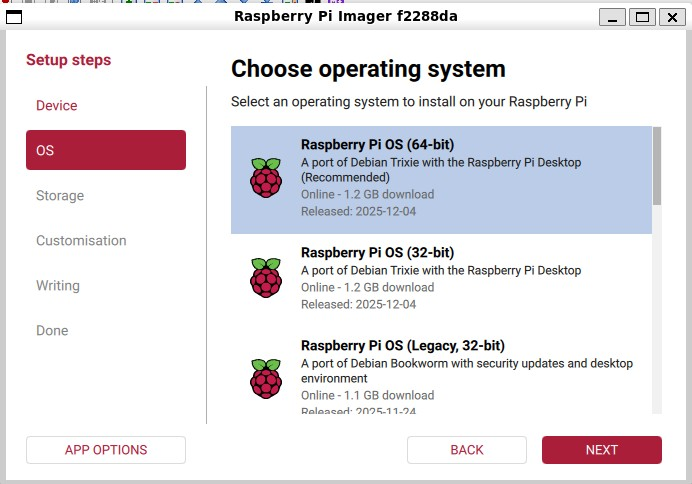
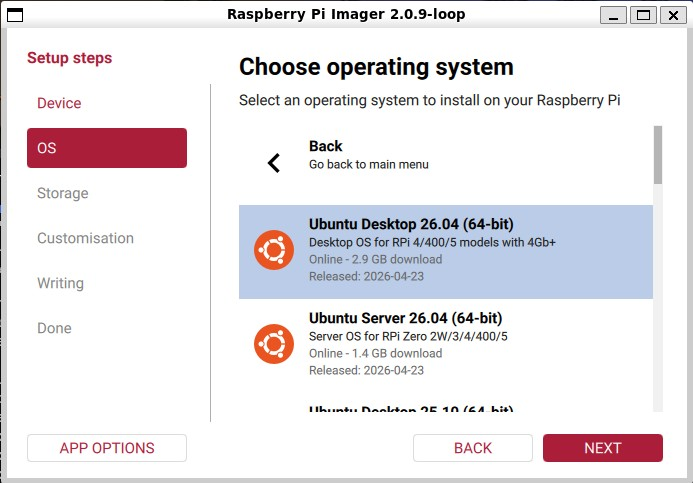
Updated Doc

diff --git a/Install_Multiboot_Images.md b/Install_Multiboot_Images.md
@@ -36,19 +36,20 @@ your target partition is of course ~/realimages
 cd ~/Pi_Multiboot/create_images
 ./install_image.sh -h
 
-Usage: ./install_image.sh -r=<root_mount> -n=<name_of_image> -m=<pi_model> -s=<size> [-e] [-h]
-  -r=<root_mount>    Root of mounted image disk (e.g. -r=/mnt/realimages)  
-  -n=<name>          Name of image (letters, numbers, '-', '_')  
-  -m=<pi_model>      Pi model (e.g. pi3b,pi3b+,pi4, pi5)  
-  -s=<size>          Image size (e.g. 10G)  
-  -e                 Expand root filesystem (only if exactly 2 partitions exist)  
-  -h                 Show this help  
-  Note that the script needs to be run with sudo  
+Usage: $0 -r=<root_mount> -n=<name_of_image> -m=<pi_model> -s=<size> [-e] [-h]
+  -r=<root_mount>    Root of mounted image disk (e.g. -r=/mnt/realimages)
+  -n=<name>          Name of image (letters, numbers, '-', '_')
+  -m=<pi_model>      Pi model (e.g. pi3b,pi3b+,pi4, pi5)
+  -s=<size>          Image size (e.g. 10G)
+  -c                 Apply custom files to the image directory (will not hurt if there are no custom files)
+  -e                 Expand root filesystem (only if exactly 2 partitions exist)
+  -h                 Show this help
+  Note that the script needs to be run with sudo and relies on the device tree compiler (DTC) being available
 ```
 - 
 - Run the tool as sudo with the appropriate parameters
 ```
-sudo ./install_image.sh -r=/mnt/realimages -n=My_New_OS -m=pi4 -s=10G -e
+sudo ./install_image.sh -r=/mnt/realimages -n=My_New_OS -m=pi4 -s=10G -e -c
 ```
 1) Step 1 creates the blank .img file on the root Mount  
 ```
@@ -59,11 +60,13 @@ Step 1 completed. Continue (c) or Abort (a)? [c/a]:
 ```
 2) Step 2 runs a modified version of the raspi-imager that accepts loop mounts as targets
 ```
+Continuing...
 Step 2: Loop-mounting image and running Raspberry Pi Imager...
 Loop device: /dev/loop2
 Launching Raspberry Pi Imager...
 Refreshing loop partitions...
 Reattached loop device: /dev/loop2
+
 ```
 Follow the usual imaging process selecting the loop device attached to your image as the target 
 <div>
@@ -101,10 +104,13 @@ Step 2 completed. Continue (c) or Abort (a)? [c/a]:
       to add any desired values.
    -  The config.txt from the original boot partition is extracted for reference and a file "untreated_config.txt" is created showing
       lines that it has not been possible to process.
+   -  If the -e option is selected the root partition of the new image will be expanded to fill the img file
+   -  If the -c option is selected then custom files for the image will be copied into the directory where the img file is hosted.
+      Details of what will be copied are displayed and you can confirm the copy before it is made
 ```
 Continuing...
 Step 3: Extracting DTB and kernel...
-Handling uefi fixes. Installing cpufix.dtbo and uefi_fixes.txt
+Handling uefi fixes. Installing cpufix.dtbo, dmafix.dtbo and uefi_fixes.txt
 Model: pi4 (index 5)
 Boot directory: ./bootpart
 Will output to : /mnt/realimages/My_New_OS_pi4/My_New_OS_pi4{.dtb,.kernel,.cmdline,.initrd}
@@ -114,18 +120,23 @@ Any kernel, cmdline and initrd files will be copied (-x specified.)
 UNTREATED CONFIG LINES stored in  /mnt/realimages/My_New_OS_pi4/untreated_config.txt
 uefi_fixes.txt found and will be processed after config.txt
 COPYING FULL Config.txt ./bootpart/config.txt to /mnt/realimages/My_New_OS_pi4/config.txt
-COPYING DEFAULT KERNEL ./bootpart/kernel8.img to /mnt/realimages/My_New_OS_pi4/My_New_OS_pi4.kernel
-COPYING DEFAULT INITRAMFS ./bootpart/initramfs8 to /mnt/realimages/My_New_OS_pi4/My_New_OS_pi4.initrd
-COPYING COMMAND LINE ./bootpart/cmdline.txt to /mnt/realimages/My_New_OS_pi4/My_New_OS_pi4.cmdline
+COPYING SPECIFIED KERNEL ./bootpart/current/vmlinuz to /mnt/realimages/My_New_OS_pi4/My_New_OS_pi4.kernel
+COPYING INITRAMFS ./bootpart/current/initrd.img to /mnt/realimages/My_New_OS_pi4/My_New_OS_pi4.initrd
 SET_BASE_PROPERTY (group 0): audio=on
-LOAD_OVERLAY (group 1): ./bootpart/overlays/vc4-kms-v3d-pi4.dtbo
-APPLY_OVERLAY (group 1): ./bootpart/overlays/vc4-kms-v3d-pi4.dtbo
-LOAD_OVERLAY (group 2): ./bootpart/overlays/miniuart-bt.dtbo
-APPLY_OVERLAY (group 2): ./bootpart/overlays/miniuart-bt.dtbo
-LOAD_OVERLAY (group 3): ./bootpart/overlays/cpufix.dtbo
-APPLY_OVERLAY (group 3): ./bootpart/overlays/cpufix.dtbo
-LOAD_OVERLAY (group 4): ./bootpart/overlays/upstream-pi4.dtbo
-APPLY_OVERLAY (group 4): ./bootpart/overlays/upstream-pi4.dtbo
+SET_BASE_PROPERTY (group 1): i2c_arm=on
+SET_BASE_PROPERTY (group 2): spi=on
+SET_BASE_PROPERTY (group 3): watchdog=on
+Warning: unknown base dtparam 'watchdog' ignored
+LOAD_OVERLAY (group 4): ./bootpart/current/overlays/vc4-kms-v3d-pi4.dtbo
+APPLY_OVERLAY (group 4): ./bootpart/current/overlays/vc4-kms-v3d-pi4.dtbo
+LOAD_OVERLAY (group 5): ./bootpart/current/overlays/dwc2.dtbo
+APPLY_OVERLAY (group 5): ./bootpart/current/overlays/dwc2.dtbo
+LOAD_OVERLAY (group 6): ./bootpart/current/overlays/miniuart-bt.dtbo
+APPLY_OVERLAY (group 6): ./bootpart/current/overlays/miniuart-bt.dtbo
+LOAD_OVERLAY (group 7): ./bootpart/current/overlays/cpufix.dtbo
+APPLY_OVERLAY (group 7): ./bootpart/current/overlays/cpufix.dtbo
+LOAD_OVERLAY (group 8): ./bootpart/current/overlays/dmafix.dtbo
+APPLY_OVERLAY (group 8): ./bootpart/current/overlays/dmafix.dtbo
 COPYING MERGED DTB to /mnt/realimages/My_New_OS_pi4/My_New_OS_pi4.dtb
 Files sucessfully created
 Step 3.7: Optional expansion...
@@ -137,44 +148,53 @@ Partition Table: msdos
 Disk Flags:
 
 Number  Start   End     Size    Type     File system  Flags
- 1      8389kB  545MB   537MB   primary  fat32        lba
- 2      545MB   6451MB  5906MB  primary  ext4
+ 1      1049kB  538MB   537MB   primary  fat32        boot, lba
+ 2      538MB   8922MB  8384MB  primary  ext4
 
 e2fsck 1.47.2 (1-Jan-2025)
 Pass 1: Checking inodes, blocks, and sizes
 Pass 2: Checking directory structure
 Pass 3: Checking directory connectivity
+Pass 3A: Optimizing directories
 Pass 4: Checking reference counts
 Pass 5: Checking group summary information
-rootfs: 138407/360448 files (0.1% non-contiguous), 1269154/1441792 blocks
+
+writable: ***** FILE SYSTEM WAS MODIFIED *****
+writable: 121987/512064 files (0.1% non-contiguous), 1377596/2046785 blocks
 resize2fs 1.47.2 (1-Jan-2025)
-Resizing the filesystem on /dev/loop2p2 to 2488320 (4k) blocks.
-The filesystem on /dev/loop2p2 is now 2488320 (4k) blocks long.
+Resizing the filesystem on /dev/loop2p2 to 2490112 (4k) blocks.
+The filesystem on /dev/loop2p2 is now 2490112 (4k) blocks long.
 
 Expansion complete.
 [cleanup] Forcing release of ./bootpart...
-Generating GRUB entry: /mnt/realimages/My_New_OS_pi4/Grub_My_New_OS_pi4.cfg
+Generating GRUB entry: /mnt/realimages/My_New_OS_pi4/My_New_OS_pi4_grub.cfg
 GRUB entry written to: Grub_My_New_OS_pi4.cfg
-Image creation completed successfully.
-Directory: /mnt/realimages/My_New_OS_pi4
-total 6332204
--rwxr-xr-x 1 root root        1247 Dec  4 14:40 config.txt
--rw-r--r-- 1 root root        1009 Apr 10 14:46 Grub_My_New_OS_pi4.cfg
--rwxr-xr-x 1 root root         183 Apr 10  2026 My_New_OS_pi4.cmdline
--rw-r--r-- 1 root root       81495 Apr 10 14:46 My_New_OS_pi4.dtb
--rw-r--r-- 1 root root 10737418240 Apr 10 14:46 My_New_OS_pi4.img
--rwxr-xr-x 1 root root    22480912 Dec  4 14:49 My_New_OS_pi4.initrd
--rwxr-xr-x 1 root root     9678820 Dec  4 14:39 My_New_OS_pi4.kernel
--rw-r--r-- 1 root root         128 Apr 10 14:46 untreated_config.txt
+Running customisation (may overwrite generated grub entry)...
+ sudo ./deploy_custom_files.py /mnt/realimages/My_New_OS_pi4/My_New_OS_pi4.img
+[detect] OS: ubuntu, VERSION_ID: 25
+[info] OS=ubuntu  version=25  (numeric 25.0)
+[info] UUIDs: {1: '0808-11DE', 2: 'c418dc3c-288d-475d-b6d2-48008dea7829'}
+[match] Using files from: /home/pi/Pi_Multiboot/create_images/custom_files/ubuntu/25+
+
+  Custom files from : /home/pi/Pi_Multiboot/create_images/custom_files/ubuntu/25+
+  Will be copied to : /mnt/realimages/My_New_OS_pi4
+  Prefixed with     : My_New_OS_pi4_
+
+Continue? [Y/n]: Y
+[deploy] Deployed 2 file(s) to /mnt/realimages/My_New_OS_pi4
+[done] Complete.
 ```
-## 4) Insert the contents of the suggested Grub file int grub.cfg
+## 4) Insert the contents of the suggested Grub file into grub.cfg
 - If using the Multiboot_Admin os and you have mounted the target partitionusing mountdrives.sh you are already in a position to do this.
+- Otherwise you have to insert the device that you will be using and mount it.
+  The grub.cfg file that needs updating will be  <Mount>/efi/boot/grub.cfg
+- Note that it may, in any case be preferable to update /mnt/realboot/efi/boot/grub.cfg using a text editor like nano, rather
+  than the commands below, especially if you wish to position the entry in the grub menu
 ```
 sudo cp /mnt/realboot/efi/boot/grub.cfg /mnt/realboot/efi/boot/grub.cfg.bak
-sudo cat /mnt/realimages/My_New_OS_pi4/Grub_My_New_OS_pi4.cfg | sudo tee -a /mnt/realboot/efi/boot/grub.cfg
+sudo cat /mnt/realimages/My_New_OS_pi4/My_New_OS_pi4_grub.cfg | sudo tee -a /mnt/realboot/efi/boot/grub.cfg
 ```
-Otherwise you have to insert the device that you will be using and mount it
-the grub.cfg file that needs updating will be  <Mount>/efi/boot/grub.cfg
+
 ## 5) Unmount the partitions cleanly
 With the Multiboot_Admin os use
 ```

diff --git a/Create_Partition_Structure_Instructions.md b/Create_Partition_Structure_Instructions.md
@@ -15,8 +15,8 @@ Be **very** careful to chose the right removable disk when running the install p
  
 ```  
 cd ~
-wget https://github.com/AndyDeSheffield/Pi_Multiboot/releases/download/Version_0.5_alpha/Pi_Multiboot_v0.5.tar.gz
-tar -xzf Pi_Multiboot_v0.5.tar.gz
+wget https://github.com/AndyDeSheffield/Pi_Multiboot/releases/download/latest/Pi_Multiboot.tar.gz
+tar -xzf Pi_Multiboot.tar.gz
 ```
  2. plug in the target USB key if you haven't already done so
  3. Identify your target USB key **carefully** using the multiboot-build.sh -l 